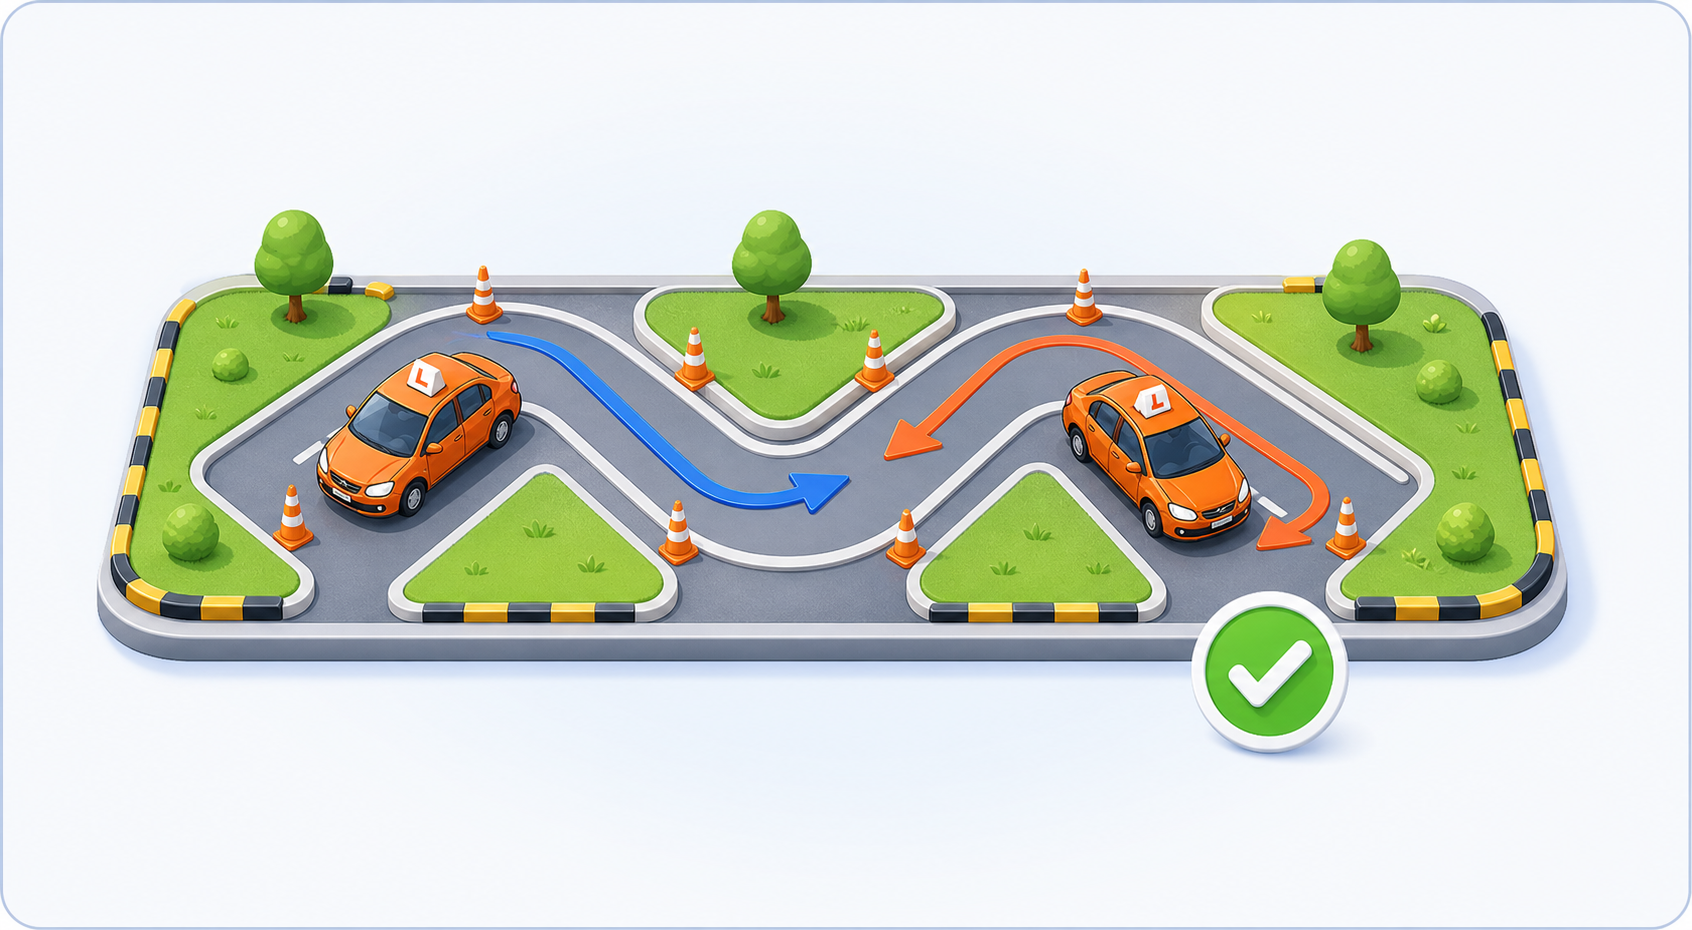
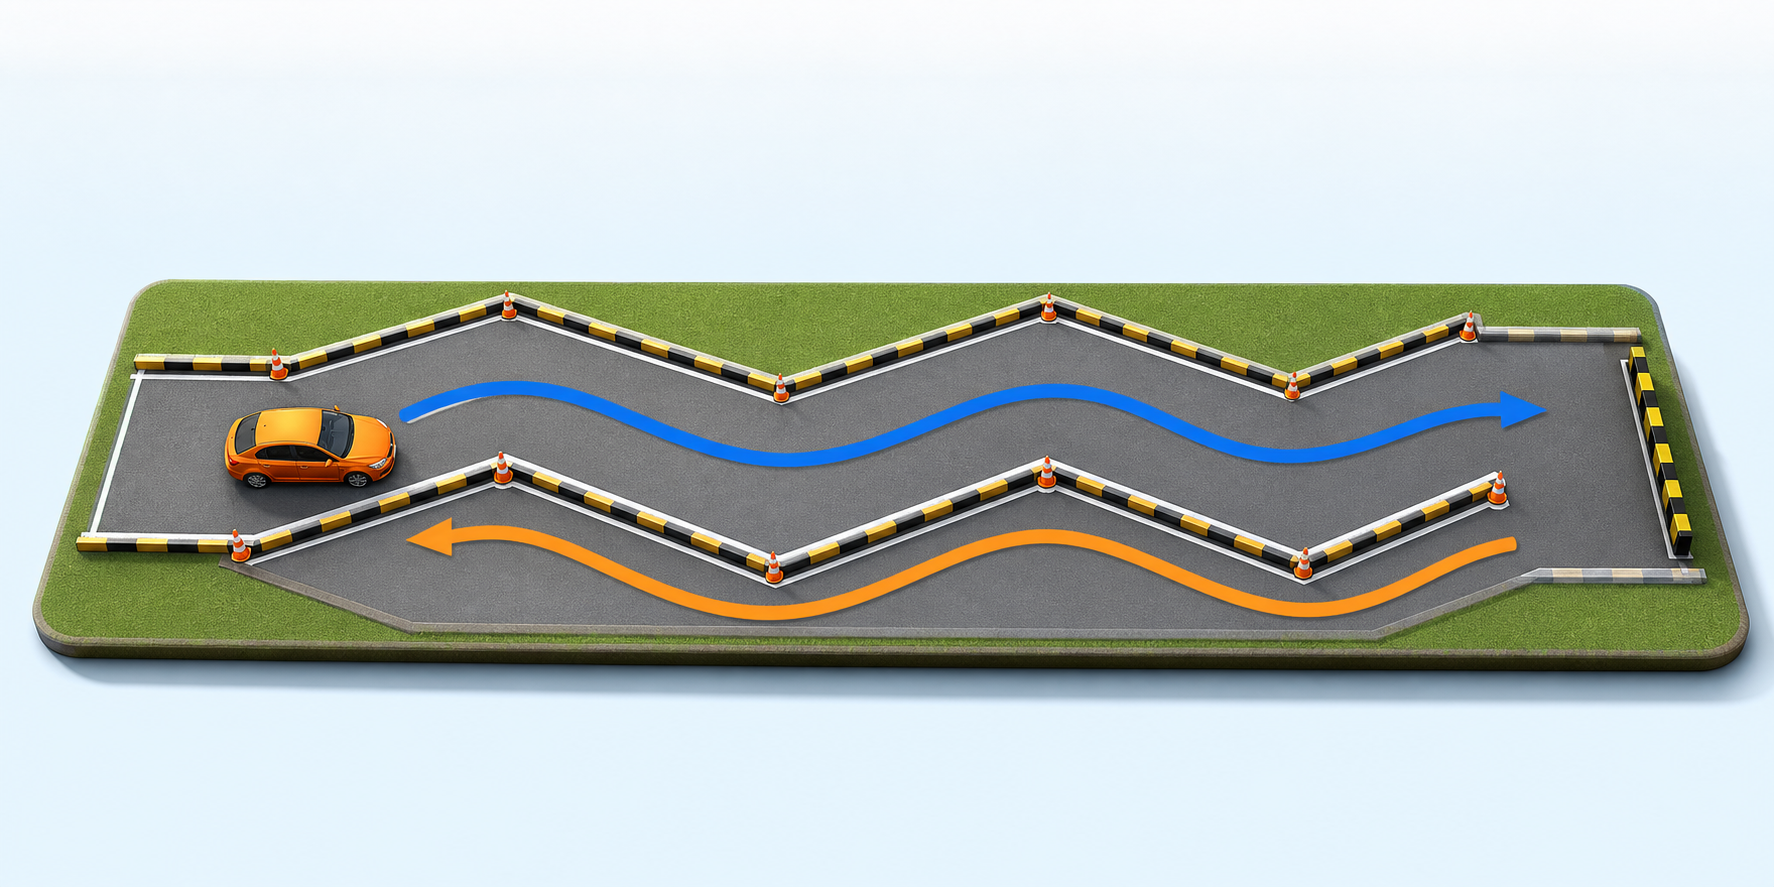
update

diff --git a/quy-dinh-chuong-trinh-hoc-lai-xe/index.html b/quy-dinh-chuong-trinh-hoc-lai-xe/index.html
@@ -981,7 +981,7 @@
                   <figure aria-hidden="true">
                     <img
                       class="completion-media"
-                      src="assets/images/completion/completion-zigzag-course.png"
+                      src="assets/images/completion/evaluation-zigzag.png"
                       alt=""
                       loading="lazy"
                     />
@@ -995,7 +995,7 @@
                   <figure aria-hidden="true">
                     <img
                       class="completion-media"
-                      src="assets/images/completion/completion-road-driving-exercise.png"
+                      src="assets/images/completion/completion-road-driving.png"
                       alt=""
                       loading="lazy"
                     />
@@ -1033,7 +1033,8 @@
                   </figure>
                   <span class="condition-card__number">1</span>
                   <h4>
-                    Tham dự tối thiểu 70% thời gian học nội dung đào tạo lý thuyết;
+                    Tham dự <span class="condition-emphasis">tối thiểu 70%</span>
+                    thời gian học nội dung đào tạo lý thuyết;
                   </h4>
                 </article>
 
@@ -1051,8 +1052,9 @@
                   </figure>
                   <span class="condition-card__number">2</span>
                   <h4>
-                    Tham dự đủ thời gian và tối thiểu 50% quãng đường học thực hành
-                    lái xe trên sân tập lái;
+                    <span class="condition-emphasis">Tham dự đủ thời gian</span> và
+                    <span class="condition-emphasis">tối thiểu 50% quãng đường</span>
+                    học thực hành lái xe trên sân tập lái;
                   </h4>
                 </article>
 
@@ -1070,8 +1072,9 @@
                   </figure>
                   <span class="condition-card__number">3</span>
                   <h4>
-                    Tham dự đủ quãng đường và tối thiểu 50% thời gian học thực hành
-                    lái xe trên đường;
+                    <span class="condition-emphasis">Tham dự đủ quãng đường</span> và
+                    <span class="condition-emphasis">tối thiểu 50% thời gian</span>
+                    học thực hành lái xe trên đường;
                   </h4>
                 </article>
               </div>
@@ -1091,7 +1094,10 @@
               <div class="completion-process completion-process--evaluation">
                 <article class="process-card process-card--wide">
                   <span class="process-card__step">1</span>
-                  <figure class="process-card__visual" aria-hidden="true">
+                  <figure
+                    class="process-card__visual"
+                    aria-hidden="true"
+                  >
                     <img
                       class="completion-media"
                       src="assets/images/completion/evaluation-theory-practice.png"
@@ -1110,7 +1116,10 @@
 
                 <article class="process-card">
                   <span class="process-card__step">2</span>
-                  <figure class="process-card__visual" aria-hidden="true">
+                  <figure
+                    class="process-card__visual"
+                    aria-hidden="true"
+                  >
                     <img
                       class="completion-media"
                       src="assets/images/completion/evaluation-simulator.png"
@@ -1130,7 +1139,10 @@
 
                 <article class="process-card">
                   <span class="process-card__step">3</span>
-                  <figure class="process-card__visual" aria-hidden="true">
+                  <figure
+                    class="process-card__visual"
+                    aria-hidden="true"
+                  >
                     <img
                       class="completion-media"
                       src="assets/images/completion/evaluation-zigzag.png"
@@ -1174,7 +1186,9 @@
                     />
                   </figure>
                   <div class="review-card__content">
-                    <p class="review-card__lead">Người học lái xe có điểm kiểm tra:</p>
+                    <p class="review-card__lead">
+                      Người học lái xe có điểm kiểm tra:
+                    </p>
                     <ul>
                       <li>Nội dung đào tạo lý thuyết;</li>
                       <li>Nội dung đào tạo thực hành lái xe với bài liên hoàn;</li>
@@ -1493,7 +1507,7 @@
               <section class="mon-part">
                 <h3 class="mon-part__title">
                   <span class="mon-part__index">Phần I</span>
-                  Luật Trật tự, an toàn giao thông đường bộ
+                  Nội dung Luật Trật tự, an toàn giao thông đường bộ
                 </h3>
                 <ol class="mon-chap-list mon-chap-list--chapter">
                   <li>
@@ -1533,7 +1547,7 @@
               <section class="mon-part">
                 <h3 class="mon-part__title">
                   <span class="mon-part__index">Phần II</span>
-                  Hệ thống báo hiệu đường bộ
+                  Nội dung Hệ thống báo hiệu đường bộ
                 </h3>
                 <ol class="mon-chap-list mon-chap-list--chapter">
                   <li>
@@ -1681,7 +1695,7 @@
               <section class="mon-part">
                 <h3 class="mon-part__title">
                   <span class="mon-part__index">Phần III</span>
-                  Xử lý các tình huống giao thông
+                  Nội dung Xử lý các tình huống giao thông
                 </h3>
                 <ol class="mon-chap-list mon-chap-list--chapter">
                   <li>
@@ -1709,7 +1723,7 @@
               <section class="mon-part">
                 <h3 class="mon-part__title">
                   <span class="mon-part__index">Môn II</span>
-                  Cấu tạo và sửa chữa thông thường
+                  Nội dung Cấu tạo và sửa chữa thông thường
                 </h3>
                 <ol class="mon-chap-list">
                   <li>
@@ -1757,8 +1771,8 @@
               <section class="mon-part">
                 <h3 class="mon-part__title">
                   <span class="mon-part__index">Môn III</span>
-                  Đạo đức người lái xe, văn hóa giao thông và phòng chống tác hại của
-                  rượu, bia khi tham gia giao thông, kỹ năng PCCC và CNCH
+                  Nội dung Đạo đức người lái xe, văn hóa giao thông và phòng chống
+                  tác hại của rượu, bia khi tham gia giao thông, kỹ năng PCCC và CNCH
                 </h3>
                 <ol class="mon-chap-list">
                   <li>
@@ -1824,7 +1838,7 @@
               <section class="mon-part">
                 <h3 class="mon-part__title">
                   <span class="mon-part__index">Môn IV</span>
-                  Kiến thức mới về xe nâng hạng
+                  Nội dung Kiến thức mới về xe nâng hạng
                 </h3>
                 <ol class="mon-chap-list">
                   <li>
@@ -1859,7 +1873,7 @@
               <section class="mon-part">
                 <h3 class="mon-part__title">
                   <span class="mon-part__index">Môn V</span>
-                  Kỹ thuật lái xe
+                  Nội dung Kỹ thuật lái xe
                 </h3>
                 <ol class="mon-chap-list">
                   <li>
@@ -1931,10 +1945,13 @@
               data-mon-content="mon-thuc-hanh"
               hidden
             >
-              <section class="mon-part" data-mon-section="1">
+              <section
+                class="mon-part"
+                data-mon-section="1"
+              >
                 <h3 class="mon-part__title">
                   <span class="mon-part__index">Mục 1</span>
-                  Tập lái xe trên xe ô tô được kê kích
+                  Nội dung Tập lái xe trên xe ô tô được kê kích
                 </h3>
                 <ol class="mon-chap-list">
                   <li>
@@ -1948,10 +1965,13 @@
                 </ol>
               </section>
 
-              <section class="mon-part" data-mon-section="2">
+              <section
+                class="mon-part"
+                data-mon-section="2"
+              >
                 <h3 class="mon-part__title">
                   <span class="mon-part__index">Mục 2</span>
-                  Tập lái xe trên sân tập lái
+                  Nội dung Tập lái xe trên sân tập lái
                 </h3>
                 <ol class="mon-chap-list">
                   <li>
@@ -1973,10 +1993,13 @@
                 </ol>
               </section>
 
-              <section class="mon-part" data-mon-section="3">
+              <section
+                class="mon-part"
+                data-mon-section="3"
+              >
                 <h3 class="mon-part__title">
                   <span class="mon-part__index">Mục 3</span>
-                  Tập lái xe trên đường giao thông
+                  Nội dung Tập lái xe trên đường giao thông
                 </h3>
                 <ol class="mon-chap-list">
                   <li>
@@ -2015,10 +2038,13 @@
                 </ol>
               </section>
 
-              <section class="mon-part" data-mon-section="4">
+              <section
+                class="mon-part"
+                data-mon-section="4"
+              >
                 <h3 class="mon-part__title">
                   <span class="mon-part__index">Mục 4</span>
-                  Ôn luyện theo các nội dung sát hạch lái xe
+                  Nội dung Ôn luyện theo các nội dung sát hạch lái xe
                 </h3>
               </section>
             </article>
@@ -2032,7 +2058,7 @@
               <section class="mon-part">
                 <h3 class="mon-part__title">
                   <span class="mon-part__index">Cabin</span>
-                  Danh sách các bài cabin
+                  Nội dung thực hành cabin
                 </h3>
                 <ol class="mon-chap-list">
                   <li>

diff --git a/quy-dinh-chuong-trinh-hoc-lai-xe/style.css b/quy-dinh-chuong-trinh-hoc-lai-xe/style.css
@@ -1741,6 +1741,10 @@ em {
   line-height: 1.28;
 }
 
+.condition-emphasis {
+  color: #dc2626;
+}
+
 .condition-card p,
 .check-card p,
 .review-card p,
